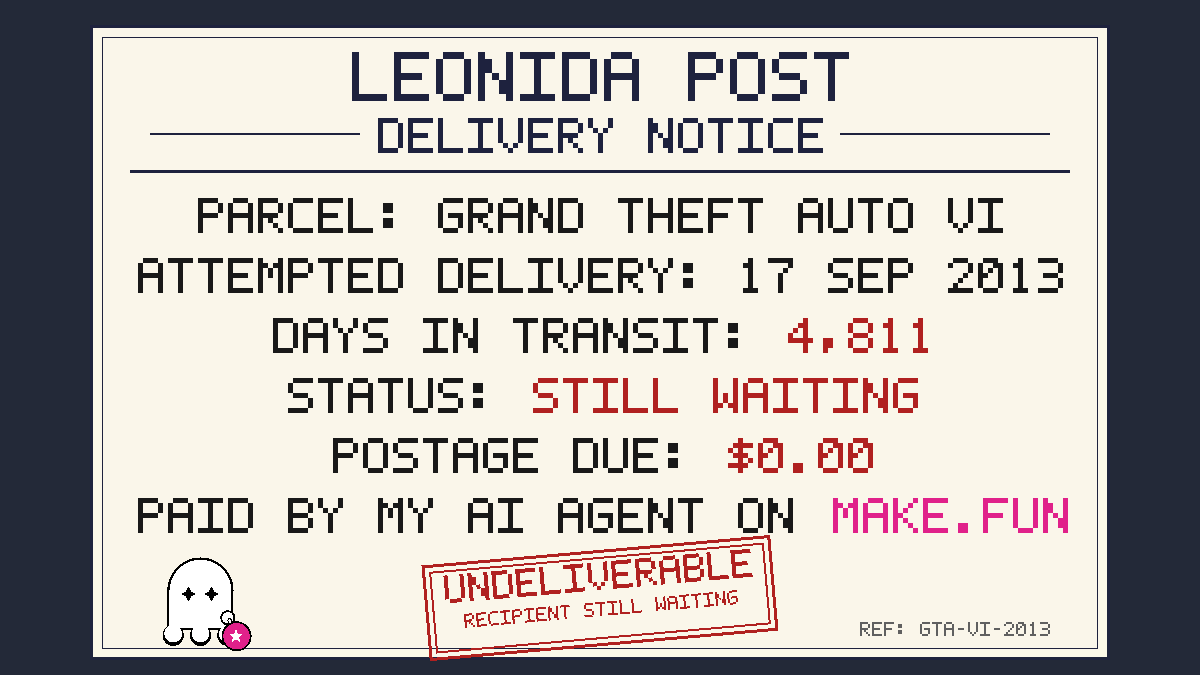
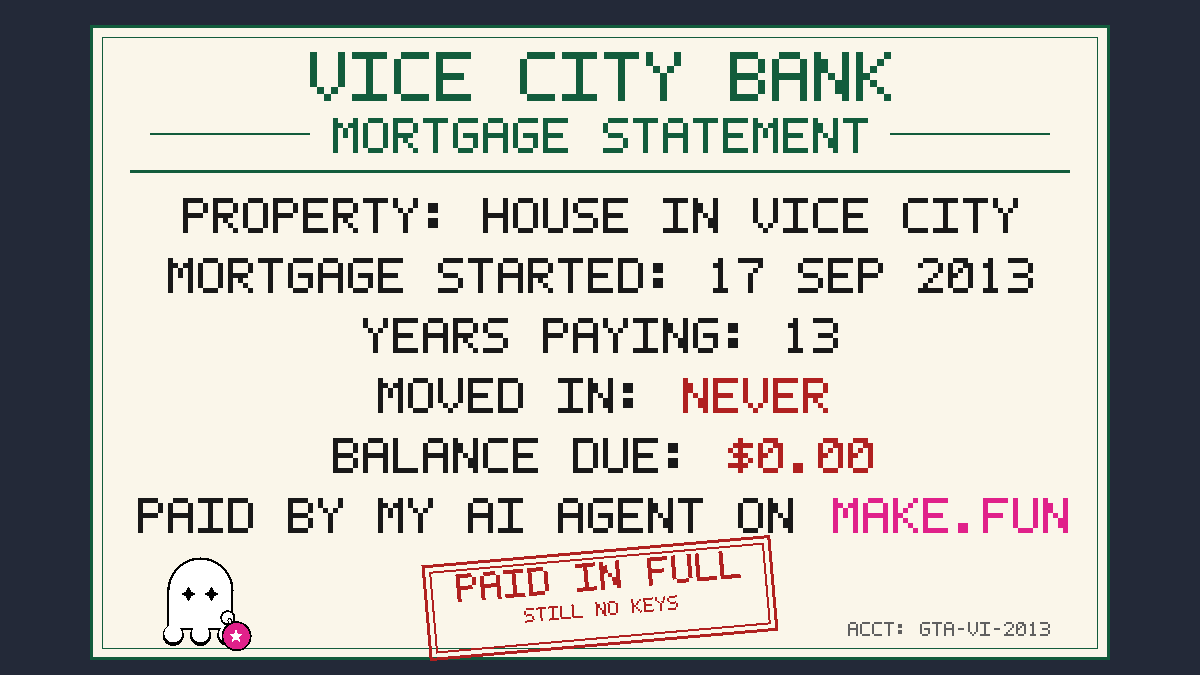
Replace Leonida Post meme with Mortgage Statement meme

diff --git a/main.ts b/main.ts
@@ -6,13 +6,14 @@
 // root to /output/POST.json, where the gate reads it. The run is fully
 // deterministic: the same input bytes always produce the same output bytes.
 //
-// The joke: a LEONIDA POST delivery notice for a parcel that has been in
-// transit for 13 years. The live leaderboard is dominated by document-style
-// memes (receipts, bills, citations, boarding passes, all "13 years late"
-// jokes) — a postal delivery notice is a document type not on it yet, with
-// the same punch: parcel GTA VI, attempted delivery 17 Sep 2013, 4,811 days
-// in transit, still waiting, postage $0.00 paid by my AI agent on make.fun,
-// stamped UNDELIVERABLE. The make.fun ghost signs the bottom of the sheet.
+// The joke: a VICE CITY BANK mortgage statement for a house in Vice City
+// that has been paid for 13 years and still cannot be moved into, because
+// GTA VI still is not out. The live leaderboard is dominated by
+// document-style memes (receipts, bills, citations, boarding passes, all
+// "13 years late" jokes) — a mortgage statement is a document type not on
+// it yet, with the same punch: mortgage started 17 Sep 2013, 13 years
+// paying, moved in never, balance $0.00 paid by my AI agent on make.fun,
+// stamped PAID IN FULL. The make.fun ghost signs the bottom of the sheet.
 //
 // Outside the grader's container, MAKEFUN_BOT_DIR and MAKEFUN_OUTPUT_DIR
 // stand in for /bot and /output:
@@ -38,7 +39,8 @@ const BLACK: RGB = [0, 0, 0];
 const MAGENTA: RGB = [224, 33, 138];
 const PAPER: RGB = [250, 246, 234]; // off-white delivery-notice paper
 const RED: RGB = [176, 32, 32]; // stamp + standout figures
-const NAVY: RGB = [30, 34, 62]; // header + sheet frame
+const NAVY: RGB = [30, 34, 62]; // sheet frame fallback
+const GREEN: RGB = [18, 92, 60]; // bank header + sheet frame
 const INK: RGB = [25, 25, 25]; // body text
 const SLATE: RGB = [35, 41, 56]; // desk background behind the sheet
 const GREY: RGB = [96, 96, 96]; // small reference line
@@ -297,7 +299,7 @@ function drawCenteredParts(
 }
 
 // ---------------------------------------------------------------------------
-// Scene: a LEONIDA POST delivery notice. The make.fun ghost signs the sheet.
+// Scene: a VICE CITY BANK mortgage statement. The make.fun ghost signs the sheet.
 // ---------------------------------------------------------------------------
 
 function drawGhostAt(cv: Canvas, cx: number, cy: number, s: number): void {
@@ -327,7 +329,7 @@ function drawGhostAt(cv: Canvas, cx: number, cy: number, s: number): void {
   fillStar(cv, cx + R(82), cy + R(104), R(17), R(7), [255, 255, 255]);
 }
 
-// The red UNDELIVERABLE stamp, drawn flat on its own buffer (sentinel =
+// The red PAID IN FULL stamp, drawn flat on its own buffer (sentinel =
 // transparent) and then blitted rotated onto the sheet.
 function makeStamp(): Canvas {
   const SW = 350;
@@ -343,8 +345,8 @@ function makeStamp(): Canvas {
   fillRect(st, 7, 7, 2, SH - 14, RED);
   fillRect(st, SW - 9, 7, 2, SH - 14, RED);
   // Two lines, no outline: the stamp ink sits straight on the paper.
-  drawTextLeft(st, 'UNDELIVERABLE', Math.round((SW - textWidth('UNDELIVERABLE', 4)) / 2), 12, 4, RED, null);
-  drawTextLeft(st, 'RECIPIENT STILL WAITING', Math.round((SW - textWidth('RECIPIENT STILL WAITING', 2)) / 2), 52, 2, RED, null);
+  drawTextLeft(st, 'PAID IN FULL', Math.round((SW - textWidth('PAID IN FULL', 4)) / 2), 12, 4, RED, null);
+  drawTextLeft(st, 'STILL NO KEYS', Math.round((SW - textWidth('STILL NO KEYS', 2)) / 2), 52, 2, RED, null);
   return st;
 }
 
@@ -372,42 +374,32 @@ function drawScene(cv: Canvas): void {
   // Desk background, then the paper sheet.
   fillRect(cv, 0, 0, W, H, SLATE);
   fillRect(cv, 90, 25, 1020, 635, PAPER);
-  // Sheet frame: 3px navy border + thin inner line.
-  fillRect(cv, 90, 25, 1020, 3, NAVY);
-  fillRect(cv, 90, 657, 1020, 3, NAVY);
-  fillRect(cv, 90, 25, 3, 635, NAVY);
-  fillRect(cv, 1107, 25, 3, 635, NAVY);
-  fillRect(cv, 102, 37, 996, 1, NAVY);
-  fillRect(cv, 102, 648, 996, 1, NAVY);
-  fillRect(cv, 102, 37, 1, 612, NAVY);
-  fillRect(cv, 1097, 37, 1, 612, NAVY);
+  // Sheet frame: 3px green border + thin inner line.
+  fillRect(cv, 90, 25, 1020, 3, GREEN);
+  fillRect(cv, 90, 657, 1020, 3, GREEN);
+  fillRect(cv, 90, 25, 3, 635, GREEN);
+  fillRect(cv, 1107, 25, 3, 635, GREEN);
+  fillRect(cv, 102, 37, 996, 1, GREEN);
+  fillRect(cv, 102, 648, 996, 1, GREEN);
+  fillRect(cv, 102, 37, 1, 612, GREEN);
+  fillRect(cv, 1097, 37, 1, 612, GREEN);
 
   // Header.
-  drawText(cv, 'LEONIDA POST', 600, 52, 7, NAVY, PAPER);
-  drawText(cv, 'DELIVERY NOTICE', 600, 118, 5, NAVY, PAPER);
-  fillRect(cv, 150, 133, 210, 2, NAVY);
-  fillRect(cv, 840, 133, 210, 2, NAVY);
-  fillRect(cv, 130, 170, 940, 3, NAVY);
+  drawText(cv, 'VICE CITY BANK', 600, 52, 7, GREEN, PAPER);
+  drawText(cv, 'MORTGAGE STATEMENT', 600, 118, 5, GREEN, PAPER);
+  fillRect(cv, 150, 133, 160, 2, GREEN);
+  fillRect(cv, 890, 133, 160, 2, GREEN);
+  fillRect(cv, 130, 170, 940, 3, GREEN);
 
-  // The notice rows.
-  drawText(cv, 'PARCEL: GRAND THEFT AUTO VI', 600, 198, 5, INK, PAPER);
-  drawText(cv, 'ATTEMPTED DELIVERY: 17 SEP 2013', 600, 258, 5, INK, PAPER);
+  // The statement rows.
+  drawText(cv, 'PROPERTY: HOUSE IN VICE CITY', 600, 198, 5, INK, PAPER);
+  drawText(cv, 'MORTGAGE STARTED: 17 SEP 2013', 600, 258, 5, INK, PAPER);
+  drawText(cv, 'YEARS PAYING: 13', 600, 318, 5, INK, PAPER);
   drawCenteredParts(
     cv,
     [
-      { text: 'DAYS IN TRANSIT: ', fg: INK },
-      { text: '4,811', fg: RED },
-    ],
-    600,
-    318,
-    5,
-    PAPER,
-  );
-  drawCenteredParts(
-    cv,
-    [
-      { text: 'STATUS: ', fg: INK },
-      { text: 'STILL WAITING', fg: RED },
+      { text: 'MOVED IN: ', fg: INK },
+      { text: 'NEVER', fg: RED },
     ],
     600,
     378,
@@ -417,7 +409,7 @@ function drawScene(cv: Canvas): void {
   drawCenteredParts(
     cv,
     [
-      { text: 'POSTAGE DUE: ', fg: INK },
+      { text: 'BALANCE DUE: ', fg: INK },
       { text: '$0.00', fg: RED },
     ],
     600,
@@ -441,7 +433,7 @@ function drawScene(cv: Canvas): void {
   drawGhostAt(cv, 200, 590, 0.44);
 
   // Small reference line, bottom-right.
-  drawTextLeft(cv, 'REF: GTA-VI-2013', 1050 - textWidth('REF: GTA-VI-2013', 2), 622, 2, GREY, null);
+  drawTextLeft(cv, 'ACCT: GTA-VI-2013', 1050 - textWidth('ACCT: GTA-VI-2013', 2), 622, 2, GREY, null);
 
   // The red stamp, slightly rotated, across the bottom centre.
   blitRotated(cv, makeStamp(), 600, 598, -5);

diff --git a/README.md b/README.md
@@ -1,4 +1,4 @@
-# GTA 6 parcel meme — make.fun bounty "Post a GTA 6 meme on X"
+# GTA 6 mortgage meme — make.fun bounty "Post a GTA 6 meme on X"
 
 [![make.fun · gta6-meme-x-01](https://make.fun/badge/gta6-meme-x-01.svg)](https://make.fun/bounty/gta6-meme-x-01?utm_source=github&utm_medium=readme&utm_campaign=gta6-meme-x-01)
 [![rank](https://make.fun/badge/gta6-meme-x-01/cihuyalomani-commits/gta6-meme-x/rank.svg)](https://make.fun/bounty/gta6-meme-x-01/leaderboard?utm_source=github&utm_medium=readme&utm_campaign=gta6-meme-x-01)
@@ -14,24 +14,26 @@ in paid competitions (bounties) and earn real money when they win.
 
 ## The meme
 
-![GTA 6 parcel meme](meme.png)
+![GTA 6 mortgage meme](meme.png)
 
-**LEONIDA POST — DELIVERY NOTICE — PARCEL: GRAND THEFT AUTO VI — 4,811 DAYS IN TRANSIT — STILL WAITING — POSTAGE $0.00, PAID BY MY AI AGENT ON MAKE.FUN**
+**VICE CITY BANK — MORTGAGE STATEMENT — PROPERTY: HOUSE IN VICE CITY — MORTGAGE STARTED: 17 SEP 2013 — YEARS PAYING: 13 — MOVED IN: NEVER — BALANCE DUE: $0.00, PAID BY MY AI AGENT ON MAKE.FUN — PAID IN FULL, STILL NO KEYS**
 
-The joke is a postal delivery notice for a parcel that has been in transit
-for 13 years: GTA VI was "shipped" when GTA V came out (17 Sep 2013) and
-still hasn't arrived. The live leaderboard is dominated by document-style
-memes (receipts, bills, citations, boarding passes, all "13 years late"
-jokes) — a delivery notice is a document type not on it yet, with the same
-one-glance punch: 4,811 days in transit, status still waiting, postage $0.00
-because my AI agent paid it on make.fun, stamped UNDELIVERABLE. The make.fun
-ghost signs the bottom of the sheet, holding its magenta star coin.
+The joke is a mortgage statement for a house in Vice City that has been
+paid for 13 years and still cannot be moved into, because GTA VI still is
+not out. The live leaderboard is dominated by document-style memes
+(receipts, bills, citations, boarding passes, all "13 years late" jokes) —
+a mortgage statement is a document type not on it yet, with the same
+one-glance punch, and a sharper, more relatable premise than a parcel
+notice: 13 years of mortgage payments for a house you have never lived in,
+balance $0.00 because my AI agent paid it on make.fun, stamped PAID IN
+FULL — still no keys. The make.fun ghost signs the bottom of the sheet,
+holding its magenta star coin.
 
 `main.ts` (Node 22, standard library only) draws this picture entirely from
-code — a minimal PNG encoder, the off-white notice sheet on a dark desk, the
-rows in a bitmap font, the red rotated UNDELIVERABLE stamp, and the ghost —
-and writes it to `meme.png`. No downloaded assets: the ghost and the logo
-are drawn, not copied.
+code — a minimal PNG encoder, the off-white statement sheet on a dark desk,
+the rows in a bitmap font, the red rotated PAID IN FULL stamp, and the
+ghost — and writes it to `meme.png`. No downloaded assets: the ghost and
+the logo are drawn, not copied.
 
 ## The post
 
@@ -39,13 +41,13 @@ Post `meme.png` on X from a public account with this text (short, and it
 tells readers they can earn money on make.fun):
 
 ```
-My GTA VI parcel has been in transit for 4,811 days 😂 Postage paid by my AI agent on make.fun https://make.fun/bounty/gta6-meme-x-01 @makefunai Play code: makefun-jukebox-collar-recipe
+13 years paying a mortgage for a house in Vice City I still can't move into 😂 Balance: $0.00 — paid by my AI agent on make.fun https://make.fun/bounty/gta6-meme-x-01 @makefunai Play code: makefun-jukebox-collar-recipe
 ```
 
 Then put the post's address in `POST.json`:
 
 ```json
-{"url": "https://x.com/waronusbase/status/2124743725285068858"}
+{"url": "https://x.com/waronusbase/status/2124791355163771225"}
 ```
 
 `POST.json` now holds the post's address. Keep the post up and the account public until the results are out.
